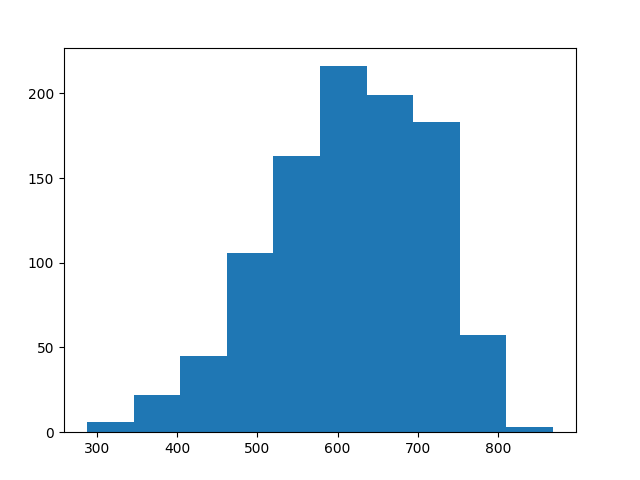
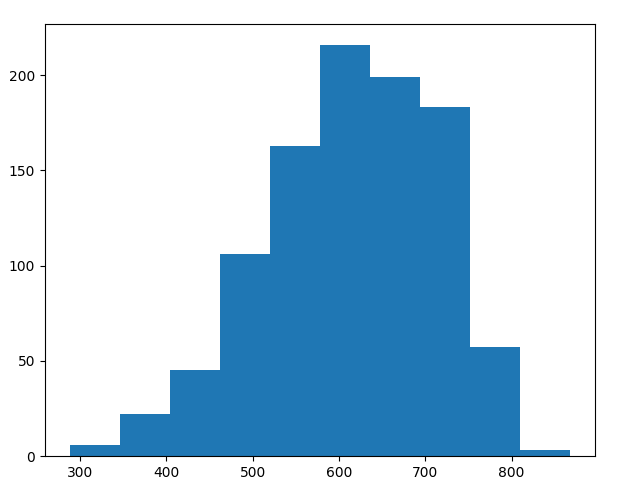
fixed histogram margins

diff --git a/scripts/graph.py b/scripts/graph.py
@@ -131,7 +131,7 @@ def main():
     plt.figure()
     plt.gca().set_alpha(0)
     plt.hist(degrees)
-    plt.subplots_adjust(left=0.1, right=0.9, top=0.9, bottom=0.1)
+    plt.subplots_adjust(left=0.07, right=0.93, top=0.95, bottom=0.05)
     plt.savefig(os.path.join(root_dir, 'data', 'graph', 'histogram.png'), transparent=True)
 
     vis_data = open(vis_filepath, "r")
